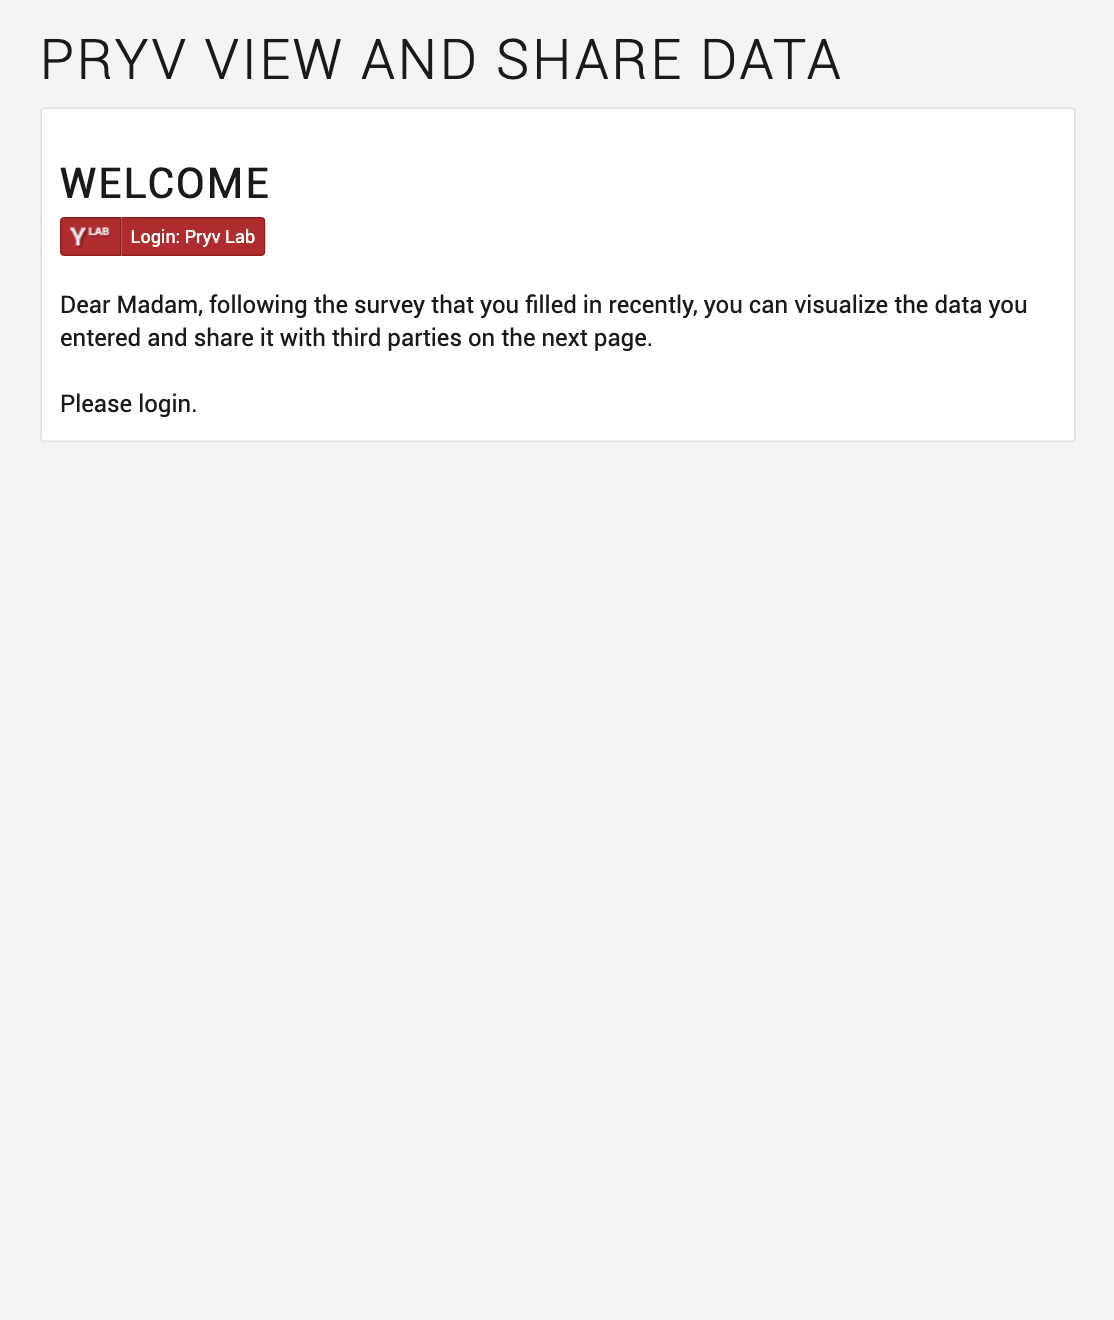
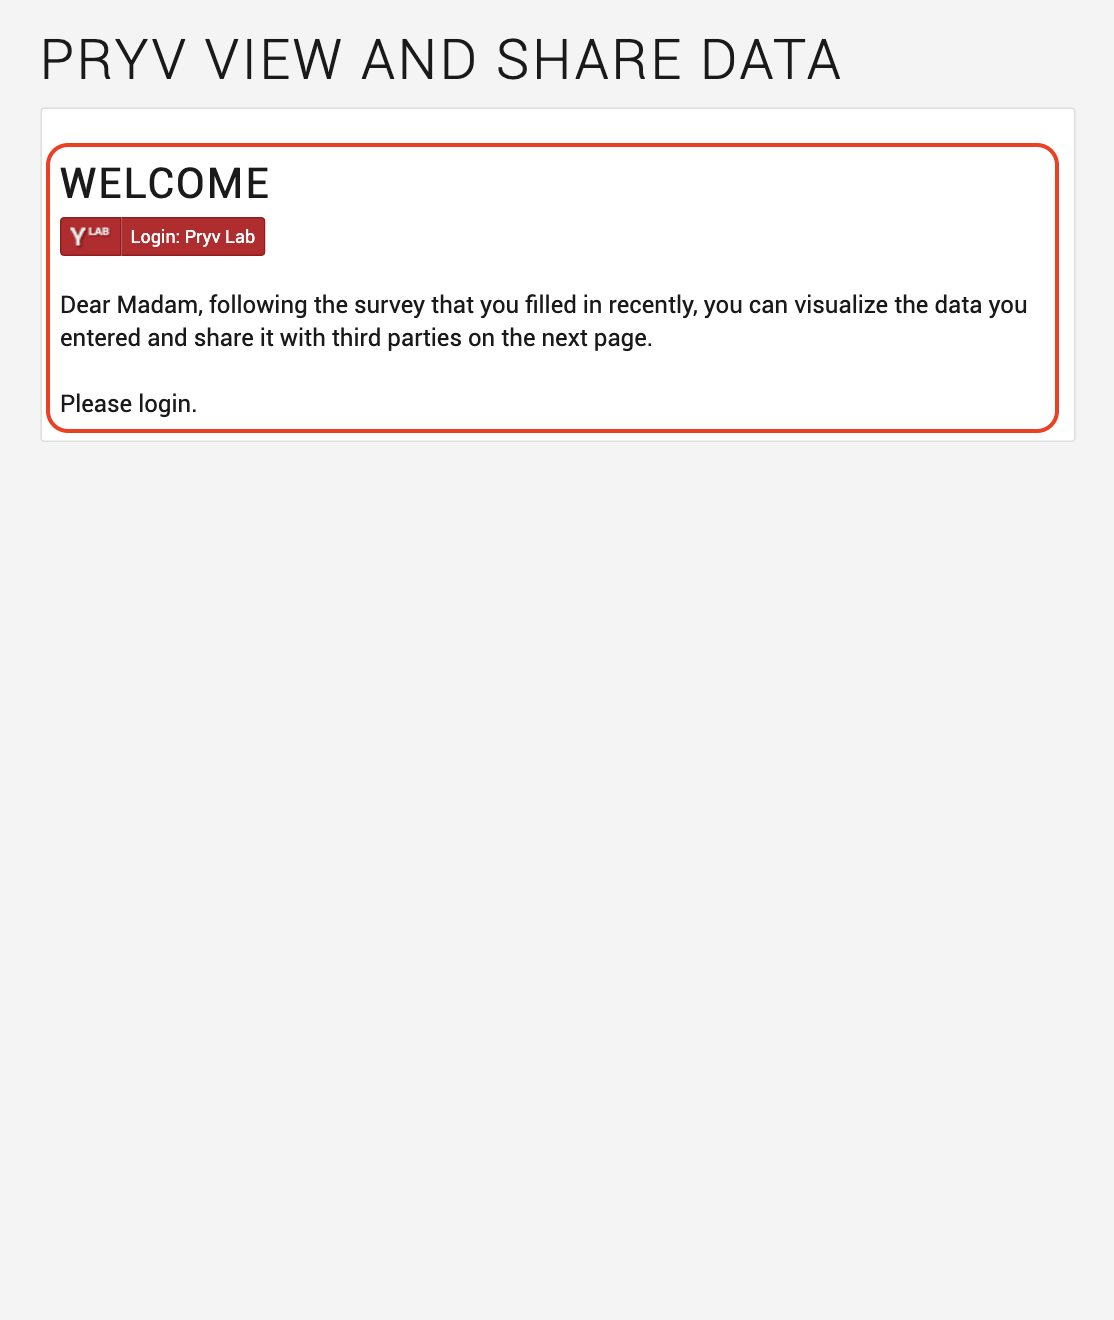
add images and tutorial to view and share example

diff --git a/view-and-share/tutorial.md b/view-and-share/tutorial.md
@@ -1,0 +1,227 @@
+
+# Pryv View and share data tutorial
+
+All you need to run this app is to download [index.html](index.html) and [script.js](script.js) files and open **index.html** with your browser.
+
+This is a visualization and sharing web app that first displays a welcome message and a button to initiate the authentication process. With click on the login button, a popup opens in your browser where you can either authenticate or create a new account. When signed in, you can consent to give the app access to the streams "Baby-Body" and "Heart" where the data from the form (see tutorial on form creation and data collection [here](collect-survey-data/tutorial.md)) is stored.
+
+Once you have accepted, it displays the saved data of your baby's weight and your own blood pressure.
+
+You can choose to share this data by creating a new sharing at the bottom of the page. This will generate a URL link that contains the shared streams ("Baby-Body", "Heart" or both).
+
+## Customize the display of the data
+
+The recorded data and the sharings are put into tabular form. You will find the code related to the data display in the [index.html](index.html) file. We invite you to customize it with your own message, headings and data form to suit your needs.
+
+## Authenticate your app
+
+For this application, we have used the [Pryv JavaScript library](https://github.com/pryv/lib-js), loading it for [the browser](https://github.com/pryv/lib-js#browser) as following:
+
+```html
+<script src="https://api.pryv.com/lib-js/pryv.js"></script>
+```
+
+For authentication, we will use the [Pryv.io consent process](https://github.com/pryv/lib-js#within-a-webpage-with-a-login-button) adding the following element in the HTML:
+
+```html
+<span id="pryv-button"></span>
+```
+
+The [auth request parameters](https://api.pryv.com/reference/#auth-request) and callback are defined in the separate [script.js](script.js) file:
+
+```javascript
+var connection = null;
+
+var authSettings = {
+  spanButtonID: 'pryv-button', 
+  onStateChange: pryvAuthStateChange,
+  authRequest: { 
+    requestingAppId: 'pryv-example-view-and-share',
+    languageCode: 'en', 
+    requestedPermissions: [
+      {
+        streamId: 'body',
+        defaultName: 'Body',
+        level: 'read'
+      },
+      {
+        streamId: 'baby',
+        defaultName: 'Baby',
+        level: 'read'
+      }
+    ],
+    clientData: {
+      'app-web-auth:description': {
+        'type': 'note/txt',
+        'content': 'This sample app demonstrates how you can visualize and share data with an app token.'
+      }
+    },
+  }
+};
+
+function pryvAuthStateChange(state) { 
+  console.log('##pryvAuthStateChange', state);
+  if (state.id === Pryv.Browser.AuthStates.AUTHORIZED) {
+    resetData();
+    document.getElementById('please-login').style.visibility = 'hidden';
+    document.getElementById('data-view').style.visibility = 'visible';
+    document.getElementById('sharing-view').style.visibility = 'visible';
+    username = state.displayName; 
+    connection = new Pryv.Connection(state.apiEndpoint);
+    loadData();
+  }
+  if (state.id === Pryv.Browser.AuthStates.INITIALIZED) {
+    document.getElementById('please-login').style.visibility = 'visible';
+    document.getElementById('data-view').style.visibility = 'hidden';
+    document.getElementById('sharing-view').style.visibility = 'hidden';
+    connection = null;
+    resetData();
+  }
+}
+```
+
+If the streams of the `requestedPermissions` array do not exist in the user's account upon authentication, they are created, the `defaultName` field serving as `name` for the [data structure](https://api.pryv.com/reference/#stream).
+
+The auth request is done on page load, except when the shared data is displayed by a third-party:
+
+```javascript
+window.onload = async (event) => {
+  if (apiEndpoint) {
+    document.getElementById('welcome-message-mme').style.visibility = 'hidden';
+    document.getElementById('please-login').style.visibility = 'hidden';
+    document.getElementById('data-view').style.visibility = 'visible';
+    document.getElementById('welcome-message-viewer').style.visibility = 'visible';
+    document.getElementById('username').innerText = apiEndpoint.split('@')[1].slice(0,-1);
+    connection = new Pryv.Connection(apiEndpoint);
+    loadData();
+  } else { 
+    service = await Pryv.Browser.setupAuth(authSettings, serviceInfoUrl);
+};
+```
+
+## Load data
+
+Once the user is signed in, data from his Pryv.io account is fetched. If there is no data, a warning is displayed to invite the user to fill in the form from the previous [tutorial](collect-survey-data/tutorial.md) on Simple Form creation.
+
+```javascript
+async function loadData() {
+  const result = await connection.api([{method: 'events.get', params: {limit: 40}}]);
+  const events = result[0].events;
+  if (! events || events.length === 0) {
+    alert('There is no data to show. Use the example "simple-form" first');
+    return;
+  }
+```
+Data from both "Baby-Body" and "Heart" streams is displayed in a table
+
+```javascript
+  const babyDataTable = document.getElementById('baby-weight-table');
+  const heartDataTable = document.getElementById('blood-pressure-table');
+  for (const event of events) {
+    if (event.streamIds.includes('baby-body') && event.type === 'mass/kg') {
+      addTableEvent(babyDataTable, event, [event.content + ' Kg']);
+    }
+    if (event.streamIds.includes('heart') && event.type === 'blood-pressure/mmhg-bpm') {
+
+      addTableEvent(heartDataTable, event, 
+        [event.content.systolic + 'mmHg', event.content.diastolic + 'mmHg']);
+    }
+  }
+  if (! apiEndpoint)
+    updateSharings();
+}
+```
+
+## Save a sharing
+
+In order to save a sharing, we add a listener to the *Create a sharing* button:
+
+```javascript
+window.onload = (event) => {
+  document.getElementById('submit-button').addEventListener("click", submitForm);
+  // ...
+};
+```
+
+This will fetch values from the `input` tags:
+
+```javascript
+const babyWeight = document.getElementById('baby-weight').value;
+const systolic = document.getElementById('systolic').value;
+const diastolic = document.getElementById('diastolic').value;
+```
+
+It will package those values into [events.create](https://api.pryv.com/reference/#create-event) [batch calls](https://api.pryv.com/reference/#call-batch), previously verifying that the entered values are indeed numbers:
+
+```javascript
+if (!isNaN(babyWeight) || !isNaN(systolic) || !isNaN(diastolic)) {
+    apiCall.push({
+      method: 'events.create',
+      params: {
+        streamId: 'baby-body',
+        type: 'mass/kg',
+        content: Number(babyWeight),
+      },
+      handleResult: logResultToConsole 
+    });
+    apiCall.push({
+      method: 'events.create',
+      params: {
+        streamId: 'heart',
+        type: 'blood-pressure/mmhg-bpm',
+        content: {
+          systolic: Number(systolic),
+          diastolic: Number(diastolic),
+        }
+      },
+      handleResult: logResultToConsole
+    });
+  } else {
+    alert('Please enter a number for the baby\'s weight and the systolic / diastolic values.');
+  }
+```
+
+As we wish to save these values into streams that are not part of the streams of the `requestedPermissions`, we ensure that they exist by bundling them in the batch call, previous to the `events.create` methods, as the array of methods is executed in order by the API:
+
+```javascript
+const apiCall = [
+  {
+    method: 'streams.create',
+    params: {
+      id: 'baby-body',
+      name: 'Baby-Body',
+      parentId: 'baby'
+    }
+  },
+  {
+    method: 'streams.create',
+    params: {
+      id: 'heart',
+      name: 'Heart',
+      parentId: 'body'
+    }
+  }
+];
+```
+
+Finally, we make the API call using [Connection.api()](https://github.com/pryv/lib-js#api-calls) method:
+
+```javascript
+const result = await connection.api(apiCall);
+```
+
+## App guidelines
+
+Following our [app guidelines](https://api.pryv.com/guides/app-guidelines/), we build apps that can work for multiple Pryv.io platforms providing a `serviceInfoUrl` query parameter:
+
+```javascript
+const serviceInfoUrl = Pryv.Browser.serviceInfoFromUrl() || 'https://reg.pryv.me/service/info';
+```
+
+To set a custom Pryv.io platform, provide the service information URL as shown here for the Pryv Lab:
+
+[https://pryv.github.io/app-web-examples/collect-survey-data/?pryvServiceInfoUrl=https://reg.pryv.me/service/info](https://pryv.github.io/app-web-examples/collect-survey-data/?pryvServiceInfoUrl=https://reg.pryv.me/service/info)
+
+ To launch this app on your [local Open Pryv.io platform](https://github.com/pryv/open-pryv.io#development) use (the link requires to have a running Open Pryv.io with the rec-la SSL proxy):
+
+[https://pryv.github.io/app-web-examples/collect-survey-data/?pryvServiceInfoUrl=https://my-computer.rec.la:4443/reg/service/info](https://pryv.github.io/app-web-examples/collect-survey-data/?pryvServiceInfoUrl=https://my-computer.rec.la:4443/reg/service/info).
